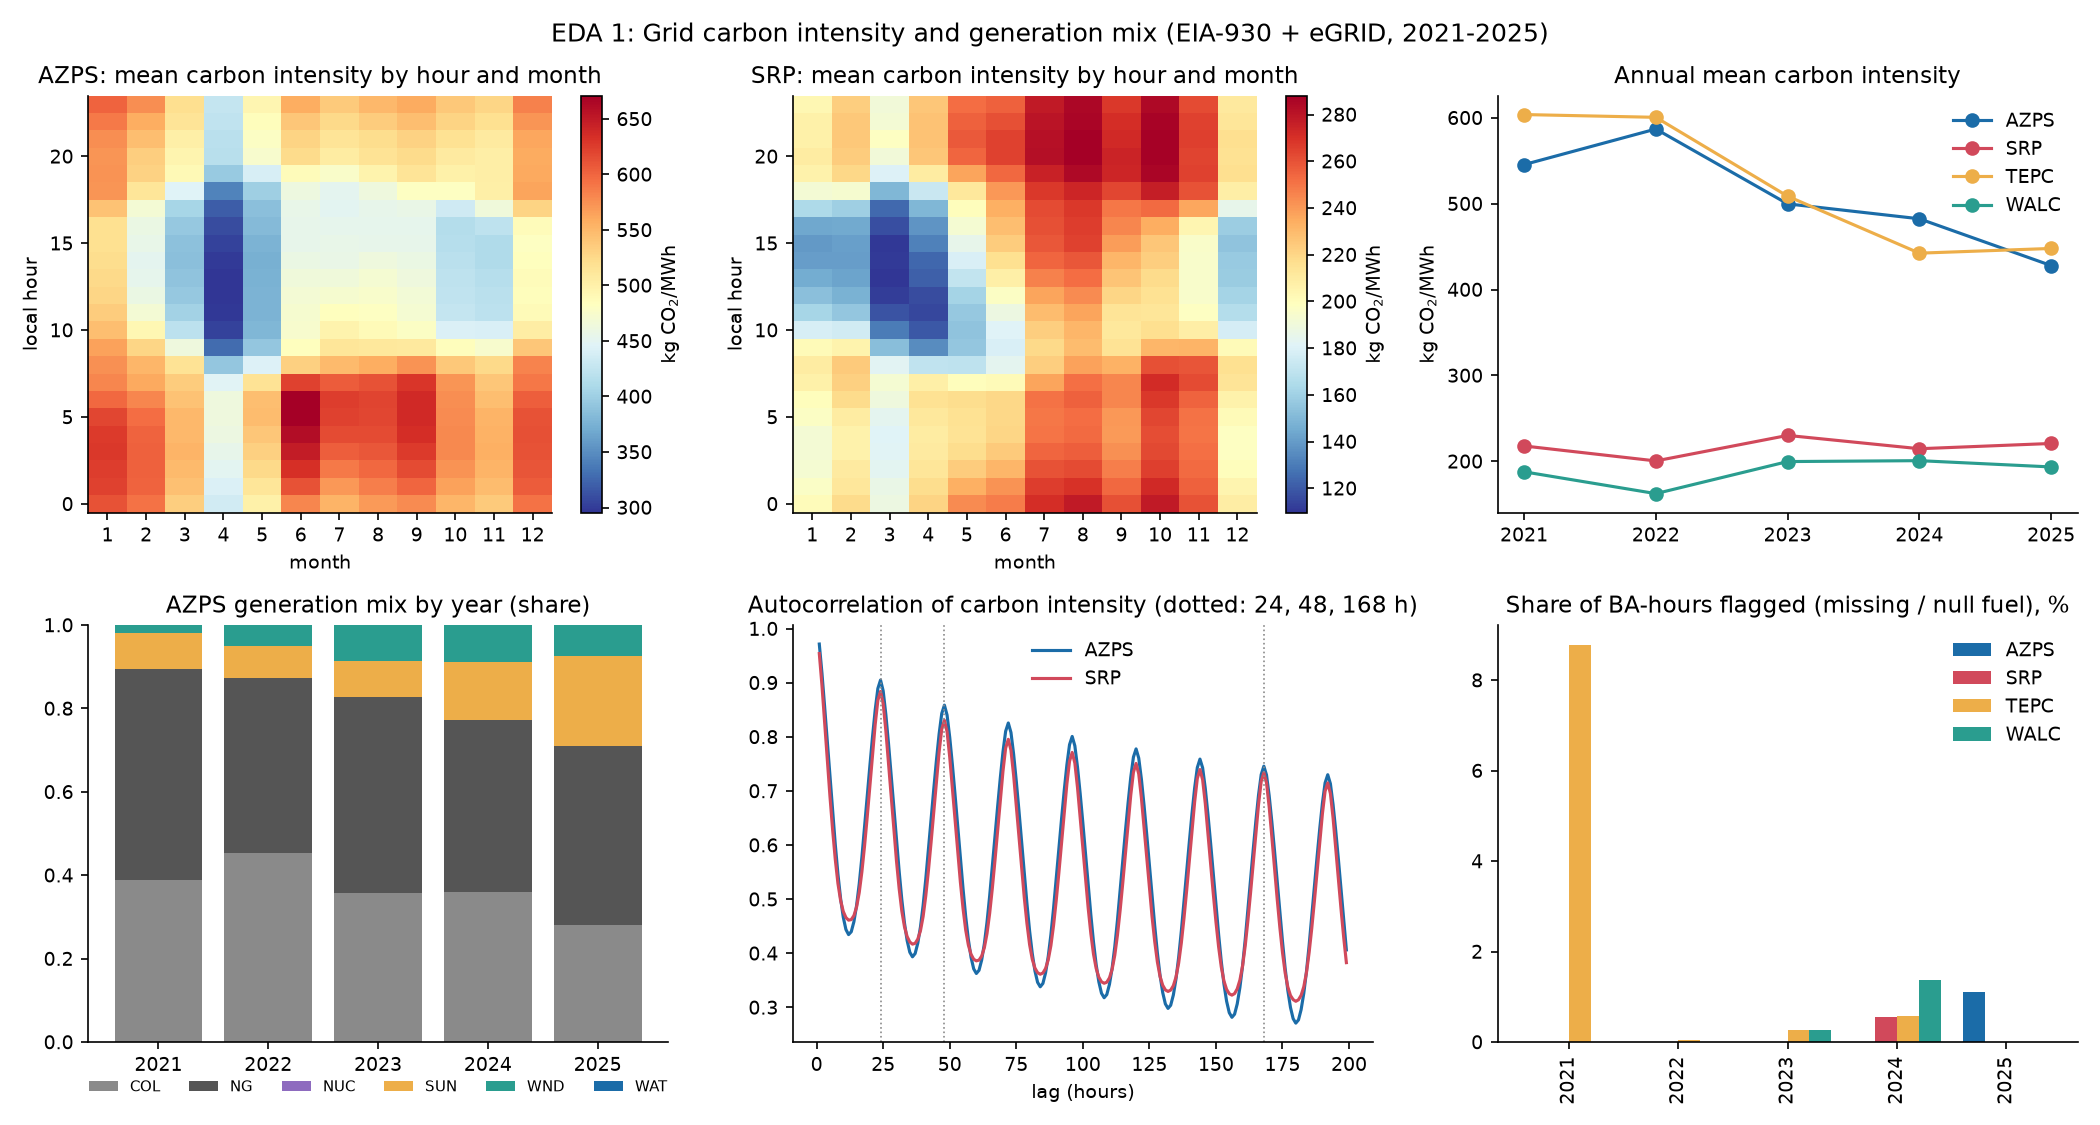
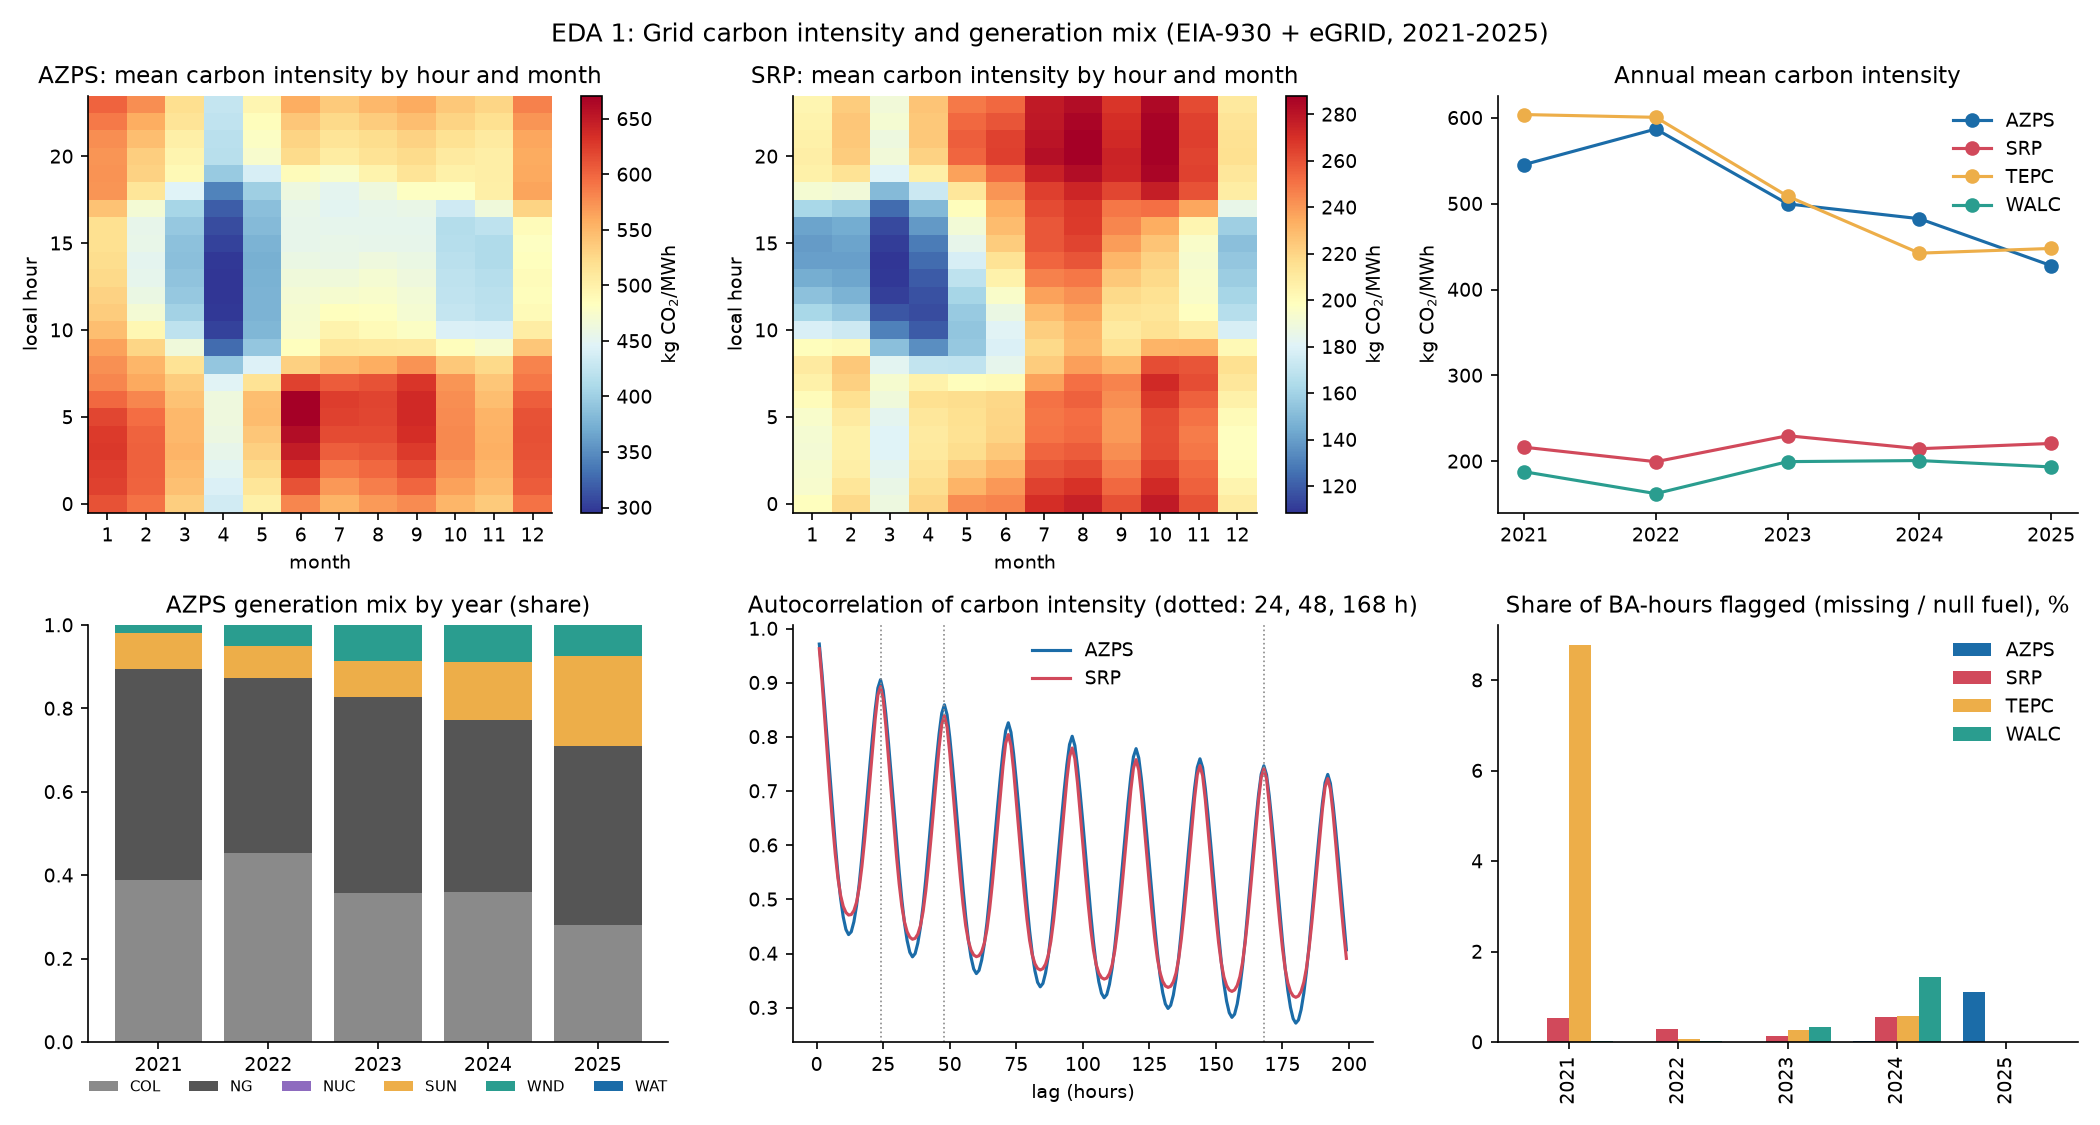
Final pipeline rerun: refresh results; update AUDIT and STAGE1_INTERCONNECTION to rerun values

diff --git a/README.md b/README.md
@@ -15,7 +15,18 @@ One framework for three linked decisions about AI data centers in Arizona:
 [docs/EDA.md](docs/EDA.md) (exploratory analysis) and
 [docs/regulatory_context_check.md](docs/regulatory_context_check.md) (fact check of policy claims) and
 [docs/AUDIT.md](docs/AUDIT.md) (self-audit: errors fixed, assumptions tested, what remains unverified) and
-[docs/STAGE1.md](docs/STAGE1.md) (siting optimizer) and
+[docs/STAGE1.md](docs/STAGE1.md) (siting optimizer),
+[docs/STAGE2.md](docs/STAGE2.md) (siting x operating carbon and water coupling),
+[docs/MARGINAL.md](docs/MARGINAL.md) (marginal vs average emissions),
+[docs/CONSUMPTION.md](docs/CONSUMPTION.md) (consumption-based intensity by flow tracing),
+[docs/LITERATURE.md](docs/LITERATURE.md) (first-pass literature check, unverified),
+[docs/ARIZONA_CASE_STUDY.md](docs/ARIZONA_CASE_STUDY.md) (framework vs the 2026 policy debate),
+[docs/RQ3_POWER.md](docs/RQ3_POWER.md) (what the reliability data can detect),
+[docs/RQ3_DC_EXPOSURE.md](docs/RQ3_DC_EXPOSURE.md) (data-center-specific exposure),
+[docs/WATER_MEASURED.md](docs/WATER_MEASURED.md) (measured plant cooling water),
+[docs/MEF_SCAN_PREREG.md](docs/MEF_SCAN_PREREG.md) and [docs/MEF_SCAN.md](docs/MEF_SCAN.md) (pre-registered multi-BA marginal-estimate stability test and its inconclusive result),
+[docs/STAGE1_INTERCONNECTION.md](docs/STAGE1_INTERCONNECTION.md) (interconnection screen for siting) and
+[docs/MIDPOINT2_REPORT.md](docs/MIDPOINT2_REPORT.md) (Checkpoint 2 status report) and
 [docs/REVEALED_PREFERENCE.md](docs/REVEALED_PREFERENCE.md) (siting from real data-center locations).
 
 ## Layout
@@ -54,6 +65,9 @@ bash src/download_static.sh                       # eGRID, LBNL, EIA-861 files
 # RQ3: reliability
 .venv/bin/python src/rq3_model.py                 # fixed-effects ladder + robustness
 .venv/bin/python src/rq3_baseline.py              # naive baseline ladder
+.venv/bin/python src/rq3_power.py                 # power analysis and the clipped-exposure check
+.venv/bin/python src/pull_osm_datacenters_us.py && .venv/bin/python src/pull_territories_us.py   # slow: Overpass is rate-limited
+.venv/bin/python src/rq3_datacenter_exposure.py   # data-center-specific exposure
 .venv/bin/python src/bayes_rq3.py full            # PyMC hierarchical model
 .venv/bin/python src/bayes_rq3.py holdout2024     # calibration check
 
@@ -65,6 +79,22 @@ bash src/download_static.sh                       # eGRID, LBNL, EIA-861 files
 # Stage 1 siting optimizer
 .venv/bin/python src/build_territories.py        # cell -> serving utility (HIFLD polygons)
 .venv/bin/python src/stage1_optimizer.py
+.venv/bin/python src/stage1_interconnection.py   # voltage-and-proximity interconnection screen (needs OSM substations in data/raw/rq2)
+.venv/bin/python src/stage2_coupling.py        # needs water_frontier inputs and schedule_savings.csv
+.venv/bin/python src/marginal_emissions.py
+.venv/bin/python src/pull_interchange.py && .venv/bin/python src/interchange_analysis.py
+.venv/bin/python src/pull_neighbor_fuel.py && .venv/bin/python src/consumption_carbon.py
+.venv/bin/python src/mef_robustness.py          # second held-out year, weather and interchange controls
+.venv/bin/python src/pull_ba_panel.py                 # 37 BAs, 2021-2025 (slow); then:
+.venv/bin/python src/ba_stability_scan.py --qc      # data-quality diagnostics only
+.venv/bin/python src/ba_stability_scan.py           # pre-registered multi-BA test (docs/MEF_SCAN_PREREG.md)
+.venv/bin/python -I src/measured_emissions_check.py && .venv/bin/python -I src/measured_emissions_downstream.py   # estimated vs measured (EPA CEMS) CO2; docs/MEASURED_EMISSIONS.md
+
+# Checkpoint 2
+.venv/bin/python src/forecast_conformal.py      # calibrated forecast intervals (needs forecast_v2 test predictions)
+.venv/bin/python src/framework_endtoend.py      # Stage 1 -> Stage 2 end to end (needs stage1, stage2_coupling, water_frontier outputs)
+.venv/bin/python src/case_study_numbers.py
+.venv/bin/python src/make_checkpoint2_figures.py
 
 # revealed-preference siting (real data-center locations)
 .venv/bin/python src/revealed_preference.py
@@ -77,6 +107,8 @@ bash src/download_static.sh                       # eGRID, LBNL, EIA-861 files
 
 # water (preliminary) and figures
 .venv/bin/python src/pull_weather_hourly.py && .venv/bin/python src/water_frontier.py
+.venv/bin/python -I src/build_water_factors.py   # measured generation-side water from EIA-860/923 (-I: reads downloaded files)
+.venv/bin/python src/water_measured.py          # carbon-water frontier under measured factors
 .venv/bin/python src/make_midpoint_figures.py
 ```
 No GPU is needed; everything ran on a laptop CPU (Apple M4).

diff --git a/docs/AUDIT.md b/docs/AUDIT.md
@@ -26,7 +26,7 @@ cells are unchanged, the rank-stability numbers are unchanged (median 0.82), and
 
 | Assumption | Test | Result |
 |---|---|---|
-| Residual-over-persistence design (chosen after seeing 2025 results) generalises | Rolling-origin: train 2021-22, early-stop 2023, test 2024 | Raw-level model again loses to persistence at 24 h (TEPC -56%, AZPS -13%); residual model is -3% to +6% vs persistence. Day-ahead gains stay marginal |
+| Residual-over-persistence design (chosen after seeing 2025 results) generalises | Rolling-origin: train 2021-22, early-stop 2023, test 2024 | Raw-level model again loses to persistence at 24 h (TEPC -53%, AZPS -13%); residual model is -12% to +7% vs persistence at 24 h (TEPC residual-lags is the -12%; the others are -0.3% to +7%). Day-ahead gains stay marginal. Re-run 2026-11-22 on the fuel-flagged series (8,779 test hours); the earlier file (8,784 hours, pre-flag) gave TEPC -56% and a residual range of -3% to +6% |
 | RQ3 null is not an artifact of mixing reliability-reporting standards (15% of utilities switch between IEEE and other) | Drop switchers; IEEE only; add indicator | +0.5% [-1.5, +2.5], +0.1% [-1.9, +2.2], +0.6% [-1.2, +2.5]: null holds |
 | Winsorising the RQ3 exposure at 1/99 hides the largest load surges | Re-estimate with the unclipped exposure, clipped at 99.9th percentile, and with extremes dropped (`src/rq3_power.py`) | Null holds in all four (+0.58% to +0.66% per +10% load); unclipped bound tightens to +1.9% (`docs/RQ3_POWER.md`) |
 | Weather and EIA-930 hours are aligned | Shift weather by +-1 hour and re-run the frontier | Within-day correlation of carbon with on-site water stays -0.4 to -0.6; carbon-only water effect -0.1% to +0.5%; balanced 3.7-4.1% |

diff --git a/docs/STAGE1_INTERCONNECTION.md b/docs/STAGE1_INTERCONNECTION.md
@@ -38,7 +38,7 @@ The best-scoring cell is 93 km from the nearest 230 kV substation, which puts a 
 **The node cap never binds.** At 500 MW the utility caps already allow only one APS-served and one SRP-served site, so the two selected sites never share a node.
 
 **Does the carbon-water footprint matter once interconnection binds?** Not for carbon. On the cells that pass the screen, the carbon of the selected set is 2,905 kt/yr in every case except the strictest (345 kV, 15 km, cap 1: one AZPS site, 2,051 kt), because the selection is still one
-AZPS-served and one SRP-served site. Water weighting changes which cell is picked and the water of the set moves between 17.6 and 18.2 Mm3/yr (17.99 at zero weight, 230 kV and 30 km), at a suitability cost of up to 0.2.
+AZPS-served and one SRP-served site. Water weighting changes which cell is picked and the water of the set moves between 17.6 and 18.2 Mm3/yr (18.00 at zero weight, 230 kV and 30 km), at a suitability cost of up to 0.2.
 This is the same structural result as before: utility scale decides the BA mix, and carbon cannot move it.
 
 ## Reading it honestly
